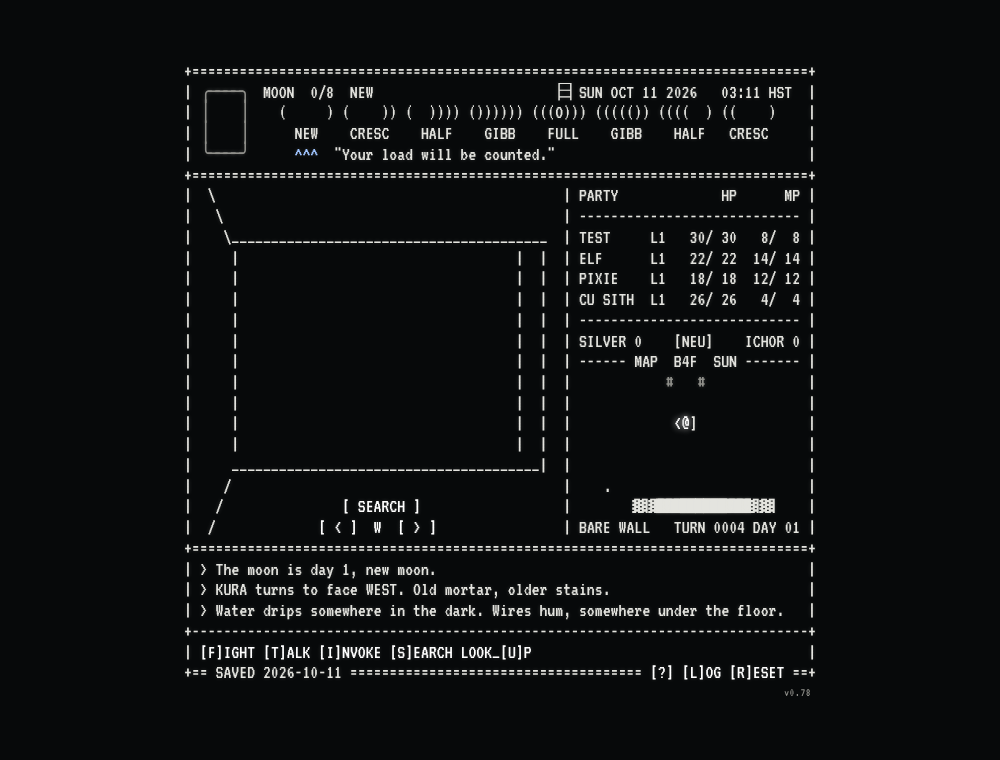
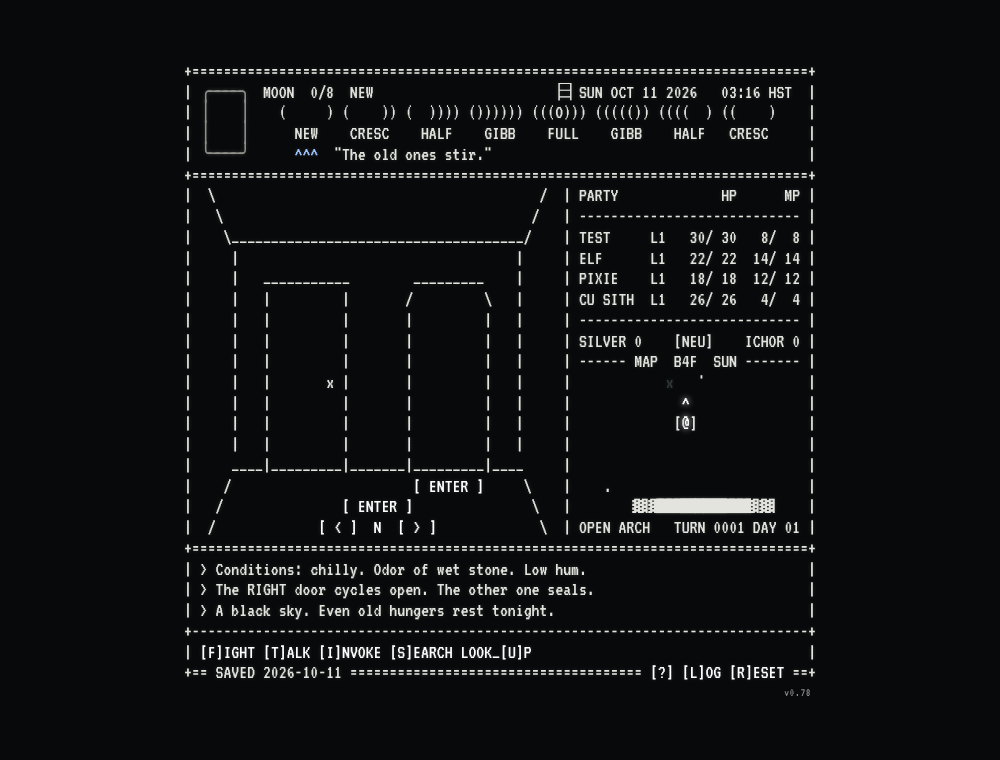
v0.78: the opened door's label becomes ENTER
Claude-Session: https://claude.ai/code/session_013UWqGfRK4VFjqaPgWYa8SW

diff --git a/index.html b/index.html
@@ -181,7 +181,8 @@
         const b = (txt, act, ok) => `<span class="btn${ok && !fight ? "" : " off"}" data-act="${act}">${txt}</span>`;
         const open = Object.keys(can.doors || {}).find(k => can.doors[k].state === "open");
         const ok = k => !!(can.doors[k] && can.doors[k].can);
-        return esc(line.slice(0, 48)).replace("[ &lt; LEFT ]", b("[ &lt; LEFT ]", "go-L", ok("L"))).replace("[ RIGHT &gt; ]", b("[ RIGHT &gt; ]", "go-R", ok("R")));
+        return esc(line.slice(0, 48)).replace("[ &lt; LEFT ]", b("[ &lt; LEFT ]", "go-L", ok("L"))).replace("[ RIGHT &gt; ]", b("[ RIGHT &gt; ]", "go-R", ok("R")))
+          .replace("[ ENTER ]", open ? b("[ ENTER ]", "go-" + open, true) : "[ ENTER ]");
       })() + esc(line.slice(48)).replace(/\./, `<span class="cell" style="position:relative;left:${[2, 6].includes(SMT.moonIndex(SMT.now())) ? ".65ch" : ".15ch"}">.</span>`);
       // The block moon (rows 1-4): each box or shade glyph boxed to one cell; the lit part glows and breathes.
       const moonBox = t => t.replace(/[╭╮╰╯─│░▒▓█]/g, ch => `<span class="cell ${/[░▒▓█]/.test(ch) ? "lit" : "mframe"}"><span class="g">${ch}</span></span>`);

diff --git a/screen.js b/screen.js
@@ -318,7 +318,11 @@
     // The one "do the obvious thing" button, with its word inside the brackets: [ SEARCH ], [ CONSULT ], [ ENTER ].
     const actBtn = `[ ${st.actLabel ? String(st.actLabel).slice(0, 8) : "^"} ]`;
     overlay(VH - 2, 23 - Math.floor((actBtn.length - 1) / 2), actBtn);
-    for (const x of (!v.look && v.doors) || []) if (x.state === "locked" && x.side !== "C") overlay(VH - 3, x.side === "L" ? 9 : 27, x.side === "L" ? "[ < LEFT ]" : "[ RIGHT > ]");
+    for (const x of (!v.look && v.doors) || []) {
+      if (x.side === "C") continue;
+      if (x.state === "locked") overlay(VH - 3, x.side === "L" ? 9 : 27, x.side === "L" ? "[ < LEFT ]" : "[ RIGHT > ]");
+      else if (x.state === "open") overlay(VH - 3, x.side === "L" ? 9 : 28, "[ ENTER ]");      // the door she opened: its label becomes the way in
+    }
     const r = s => "|" + ljust(s, W - 2) + "|";
     const rc = s => "|" + center(s, W - 2) + "|";
     const S = headerLines(st.omenText, st.tz, now);
